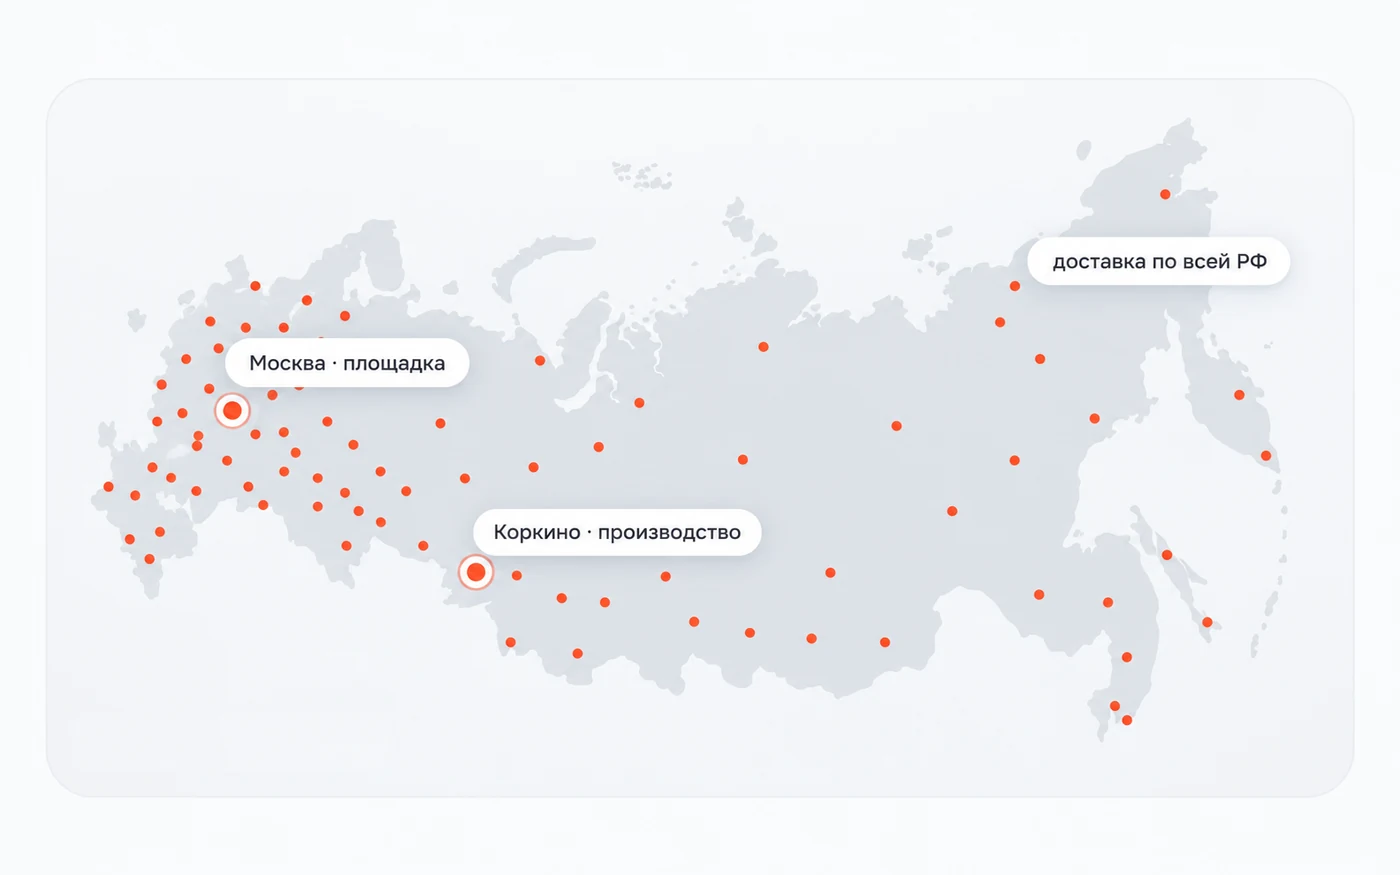
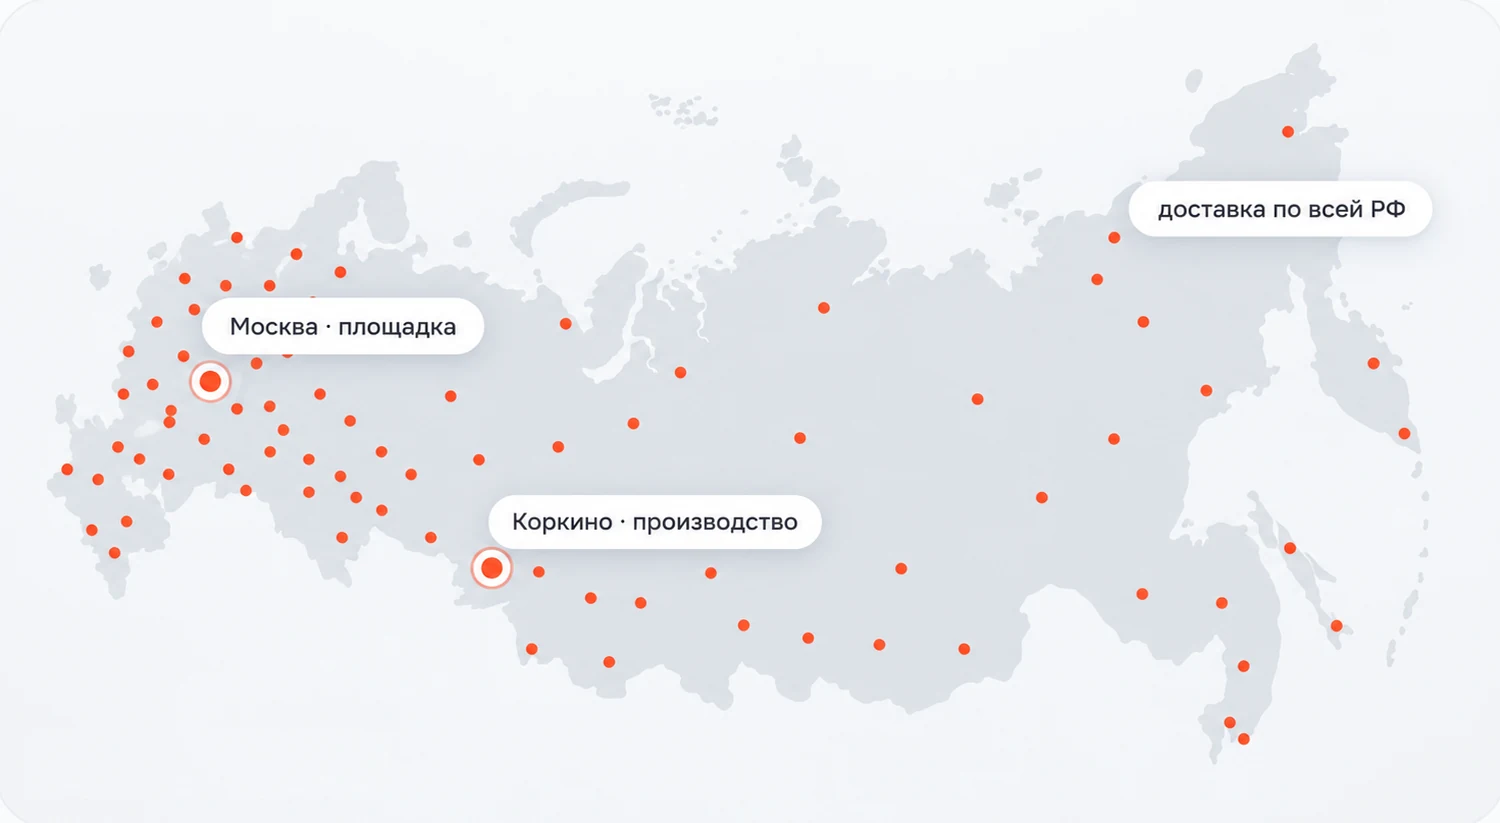
Доставка: карта крупнее, на телефоне листается
Картинка обрезана по самой карте (без полей), колонка с ней шире.
На телефоне карта держит читаемый размер и пролистывается пальцем,
иначе подписи городов уменьшались до нечитаемых.

Claude-Session: https://claude.ai/code/session_01TguMyRvyZftt8ueoPbGrxp

diff --git a/src/components/sections/Delivery.tsx b/src/components/sections/Delivery.tsx
@@ -35,7 +35,7 @@ export function Delivery() {
     <section id="delivery" className="scroll-mt-28 py-20 lg:py-28">
       <div className="mx-auto max-w-(--container-content) px-4 sm:px-6">
         <div className="rounded-panel bg-sand-50 p-6 ring-1 ring-sand-200 sm:p-10">
-          <div className="grid gap-10 lg:grid-cols-2 lg:items-start">
+          <div className="grid gap-10 lg:grid-cols-[minmax(0,1fr)_minmax(0,1.1fr)] lg:items-center">
             <div>
               <SectionHeading
                 eyebrow="Доставка и оплата"
@@ -55,12 +55,16 @@ export function Delivery() {
               </dl>
             </div>
 
-            <img
-              src={photoUrl('delivery-map.webp')}
-              alt="Карта России: площадка в Москве, производство в Коркино, доставка по всей стране"
-              loading="lazy"
-              className="w-full rounded-panel"
-            />
+            {/* On a phone the labels would shrink to nothing, so the map keeps a
+                readable width and is swiped sideways instead. */}
+            <div className="-mx-6 overflow-x-auto px-6 sm:mx-0 sm:px-0 [scrollbar-width:none] [&::-webkit-scrollbar]:hidden">
+              <img
+                src={photoUrl('delivery-map.webp')}
+                alt="Карта России: площадка в Москве, производство в Коркино, доставка по всей стране"
+                loading="lazy"
+                className="aspect-[1500/827] min-w-[38rem] rounded-panel object-cover ring-1 ring-sand-200 sm:min-w-0 sm:w-full"
+              />
+            </div>
           </div>
 
           <div className="mt-12 grid gap-6 sm:grid-cols-2">
